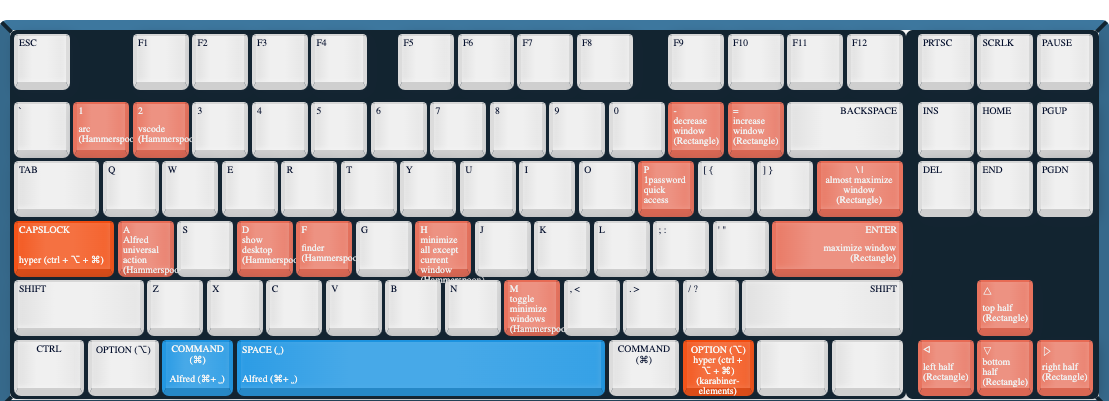
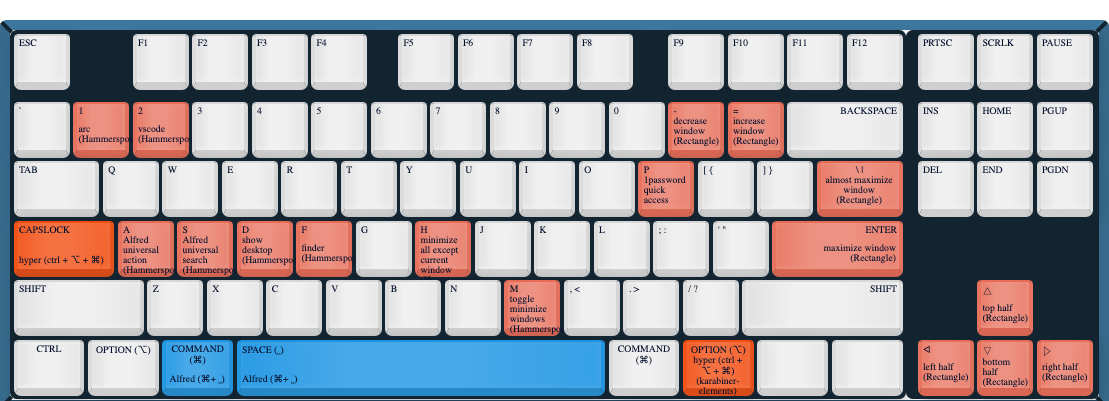
keyboard png

diff --git a/.config/keyboard.html b/.config/keyboard.html
@@ -904,8 +904,14 @@
                                         (Hammerspoon)</span
                                     >
                                 </div>
-                                <div data-key="KeyS" class="key">
-                                    S<span class="userText"></span>
+                                <div
+                                    data-key="KeyS"
+                                    class="key key--colour--coral"
+                                >
+                                    S<span class="userText"
+                                        >Alfred universal search
+                                        (Hammerspoon)</span
+                                    >
                                 </div>
                                 <div
                                     data-key="KeyD"
